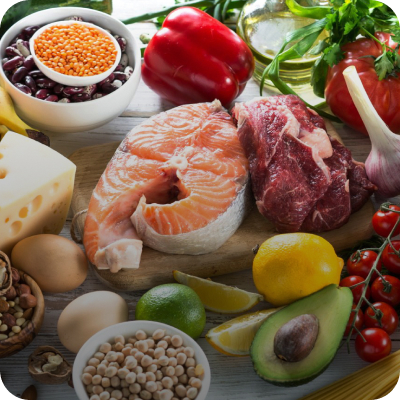
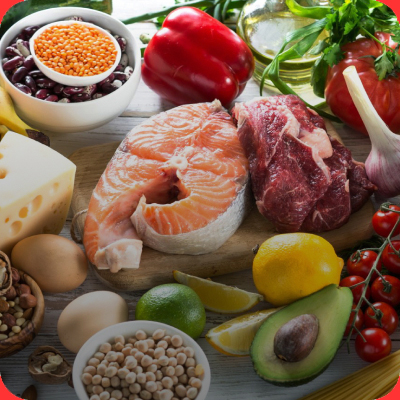
add share btns

diff --git a/src/style/sections/_grid-sec.scss b/src/style/sections/_grid-sec.scss
@@ -40,7 +40,7 @@
 .grid-sec-item {
   position: relative;
   display: flex;
-  overflow: hidden;
+  //overflow: hidden;
   flex-direction: column;
   justify-content: flex-end;
   min-height: 400px;
@@ -116,9 +116,16 @@
   display: block;
   width: 100%;
   height: 100%;
-  object-fit: cover;
-  object-position: center;
   transition: $transition;
+  img {
+    display: block;
+    overflow: hidden;
+    width: 100%;
+    height: 100%;
+    object-fit: cover;
+    object-position: center;
+    border-radius: 30px;
+  }
 }
 
 .grid-sec-item__footer {
@@ -126,6 +133,7 @@
   z-index: 1;
   display: flex;
   align-items: center;
+  margin-bottom: -15px;
 
   @include max(1400) {
     flex-direction: column-reverse;
@@ -214,10 +222,16 @@
 }
 
 .grid-sec-item__share {
+  position: relative;
   flex: none;
+  padding: 15px 0;
   &:hover {
     svg {
       fill: #ff808b;
+    }
+    .tooltip {
+      pointer-events: auto;
+      opacity: 1;
     }
   }
   svg {

diff --git a/src/style/elements/_tooltip.scss b/src/style/elements/_tooltip.scss
@@ -1,0 +1,34 @@
+.tooltip {
+  position: absolute;
+  right: -10px;
+  bottom: 100%;
+  width: max-content;
+  padding: 15px 35px 15px 15px;
+  transition: $transition;
+  pointer-events: none;
+  opacity: 0;
+  border-radius: 7px;
+  background: #fff;
+  box-shadow: 15px 15px 30px rgba(53, 93, 154, .2);
+  &::before {
+    position: absolute;
+    top: 100%;
+    right: 20px;
+    width: 14px;
+    height: 0;
+    margin: auto;
+    content: '';
+    border-top: 8px solid #fff;
+    border-right: 7px solid transparent;
+    border-left: 7px solid transparent;
+  }
+}
+
+.tooltip__title {
+  font-size: 20px;
+  font-weight: 500;
+  line-height: 30px;
+  text-align: center;
+  text-transform: uppercase;
+  color: #323232;
+}

diff --git a/src/style/pages/_article.scss b/src/style/pages/_article.scss
@@ -161,8 +161,8 @@
 .article__comments-title {
   font-size: 30px;
   font-weight: 500;
-  margin-bottom: 30px;
   line-height: 1.5;
+  margin-bottom: 30px;
   text-transform: uppercase;
   color: #323232;
 

diff --git a/src/style/app.scss b/src/style/app.scss
@@ -10,6 +10,7 @@
 //@import 'elements/pagination';
 @import 'elements/popup';
 @import 'elements/slickBase';
+@import 'elements/tooltip';
 
 //section
 @import 'sections/header';

diff --git a/src/style/pages/_blog.scss b/src/style/pages/_blog.scss
@@ -45,7 +45,6 @@
   position: relative;
   display: flex;
   float: left;
-  overflow: hidden;
   flex-direction: column;
   justify-content: flex-end;
   min-height: 400px;
